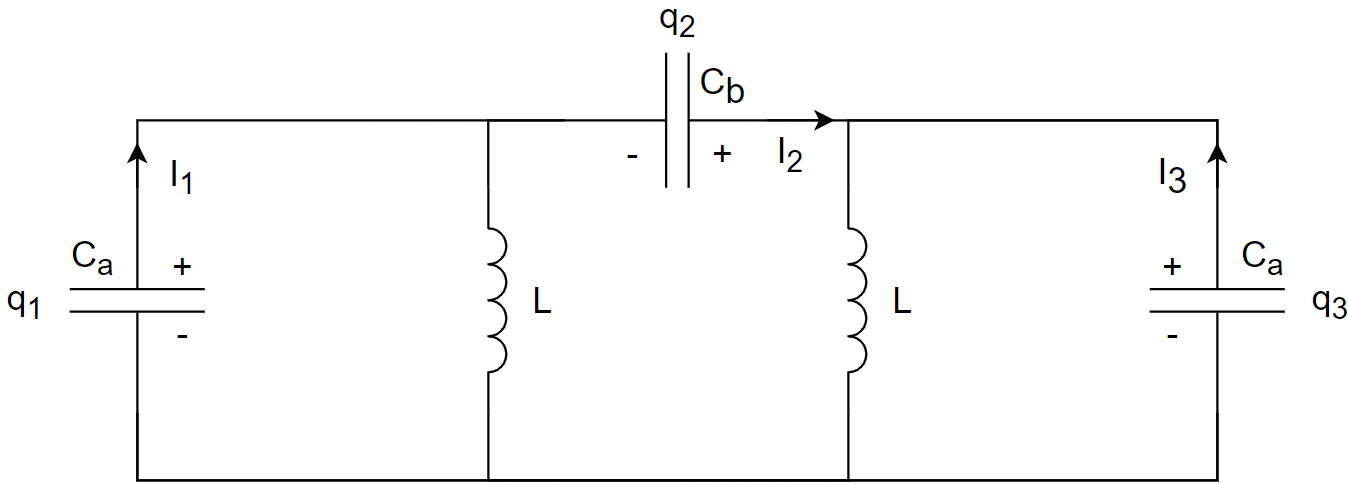
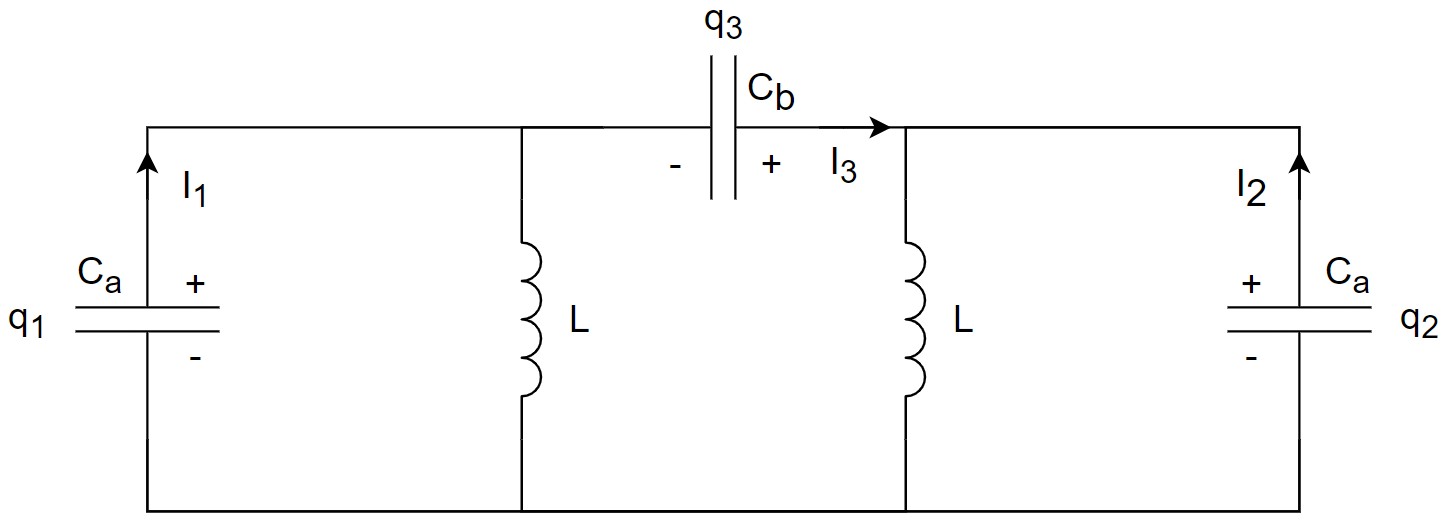
Finished part a of problem 3

diff --git a/4/Homework4_Sowatzke.tex b/4/Homework4_Sowatzke.tex
@@ -101,5 +101,19 @@
 			
 			In this problem we will explore how to convert the physical properties of this system into a linear map and how, with a strategic choice, we can convert the general linear map into an \textit{eigenvalue equation} that describes the system. In future homework problems, we will work on solving the \textit{eigenvalue equation} to determine the \textit{natural modes} of the system
 			
+			\begin{enumerate}[nolistsep]
+				\item Remembering that the voltage difference across a capacitor and inductor can be written as $V=q/C$ and $V=L(dI/dt)$, respectively ($I$ is the \textit{net} current through the inductor), derive two equations that relate the charges $q_1$ and $q_2$ to the loop currents $I_1$, $I_2$, and $I_3$.
+				
+					\pagebreak
+					\begin{equation*}
+						\frac{q_1}{C_a} = L\frac{d}{dt}(I_1 - I_3)\Rightarrow q_1 = LC_a\frac{d}{dt}(I_1 - I_3)
+					\end{equation*}
+					%
+					\begin{equation*}
+						\frac{q_2}{C_a} = L\frac{d}{dt}(I_2 + I_3) \Rightarrow q_2 = LC_a\frac{d}{dt}(I_2 + I_3)
+					\end{equation*}
+				
+				\item 
+			\end{enumerate}
 	\end{enumerate}
 \end{document}
